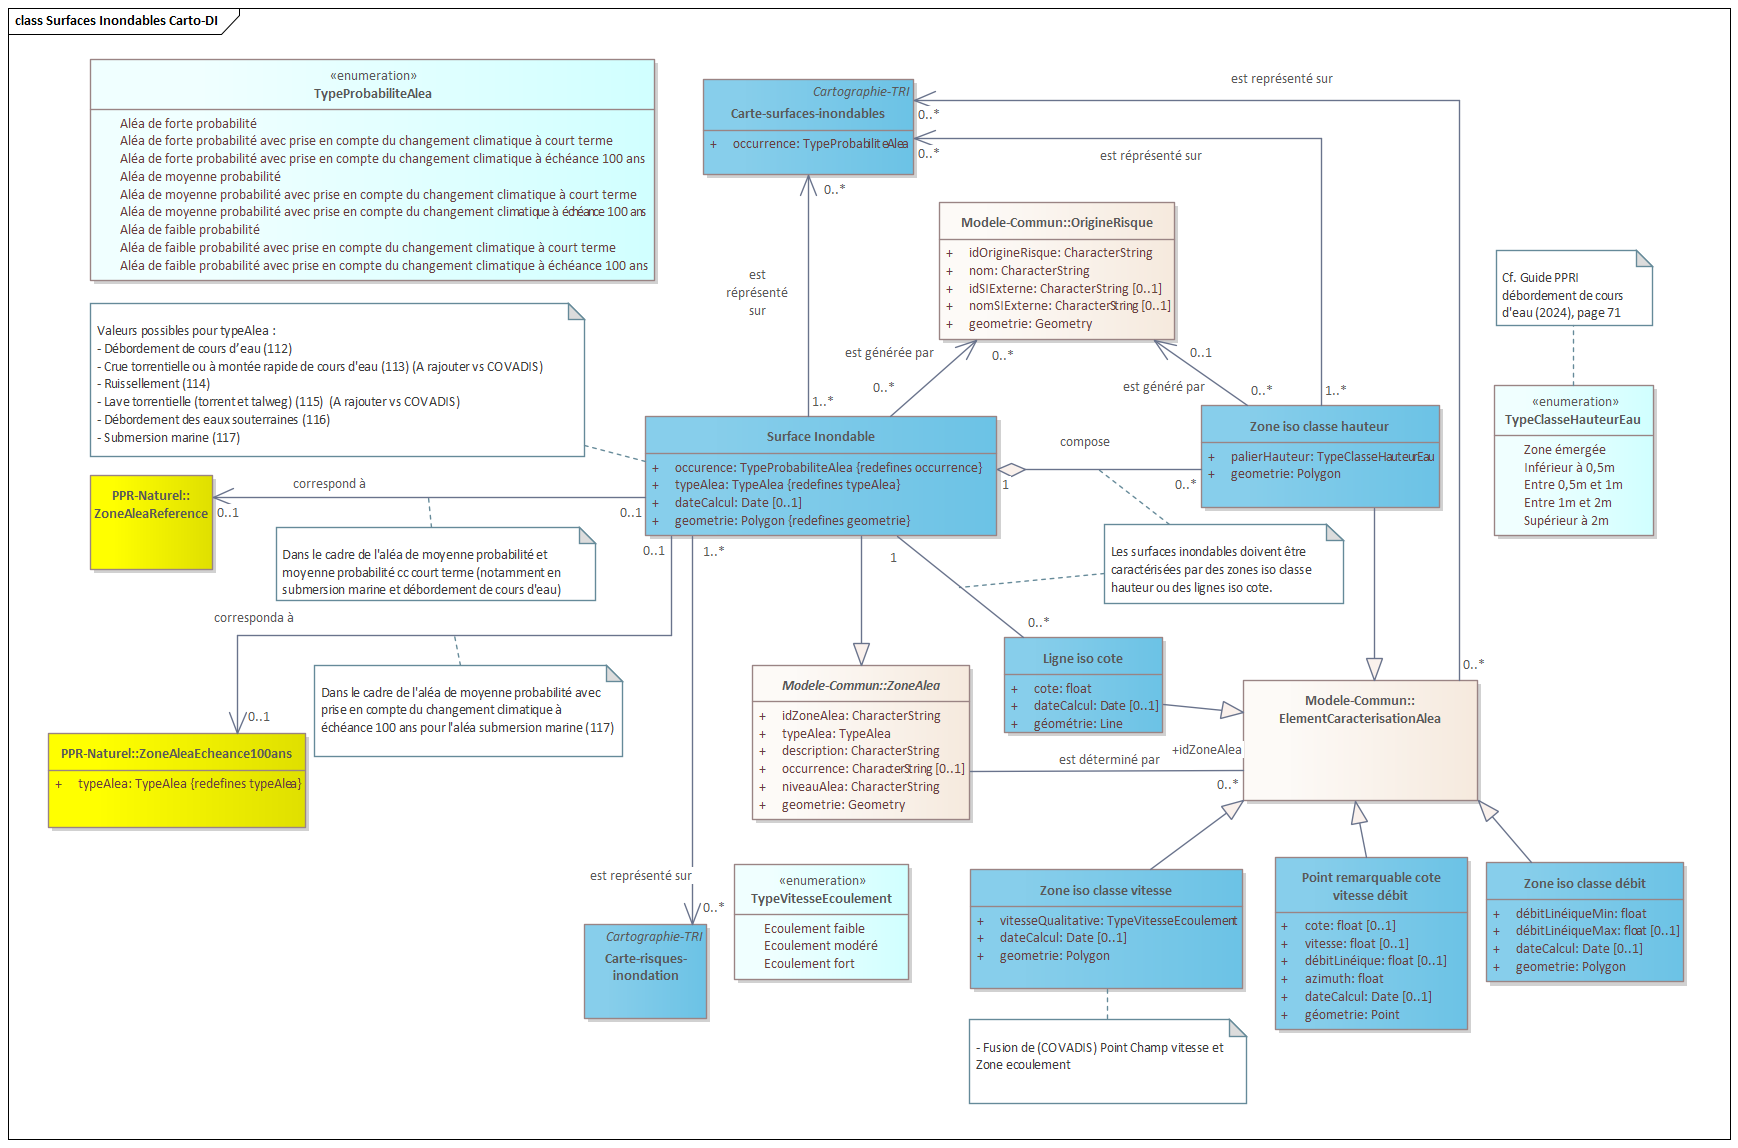
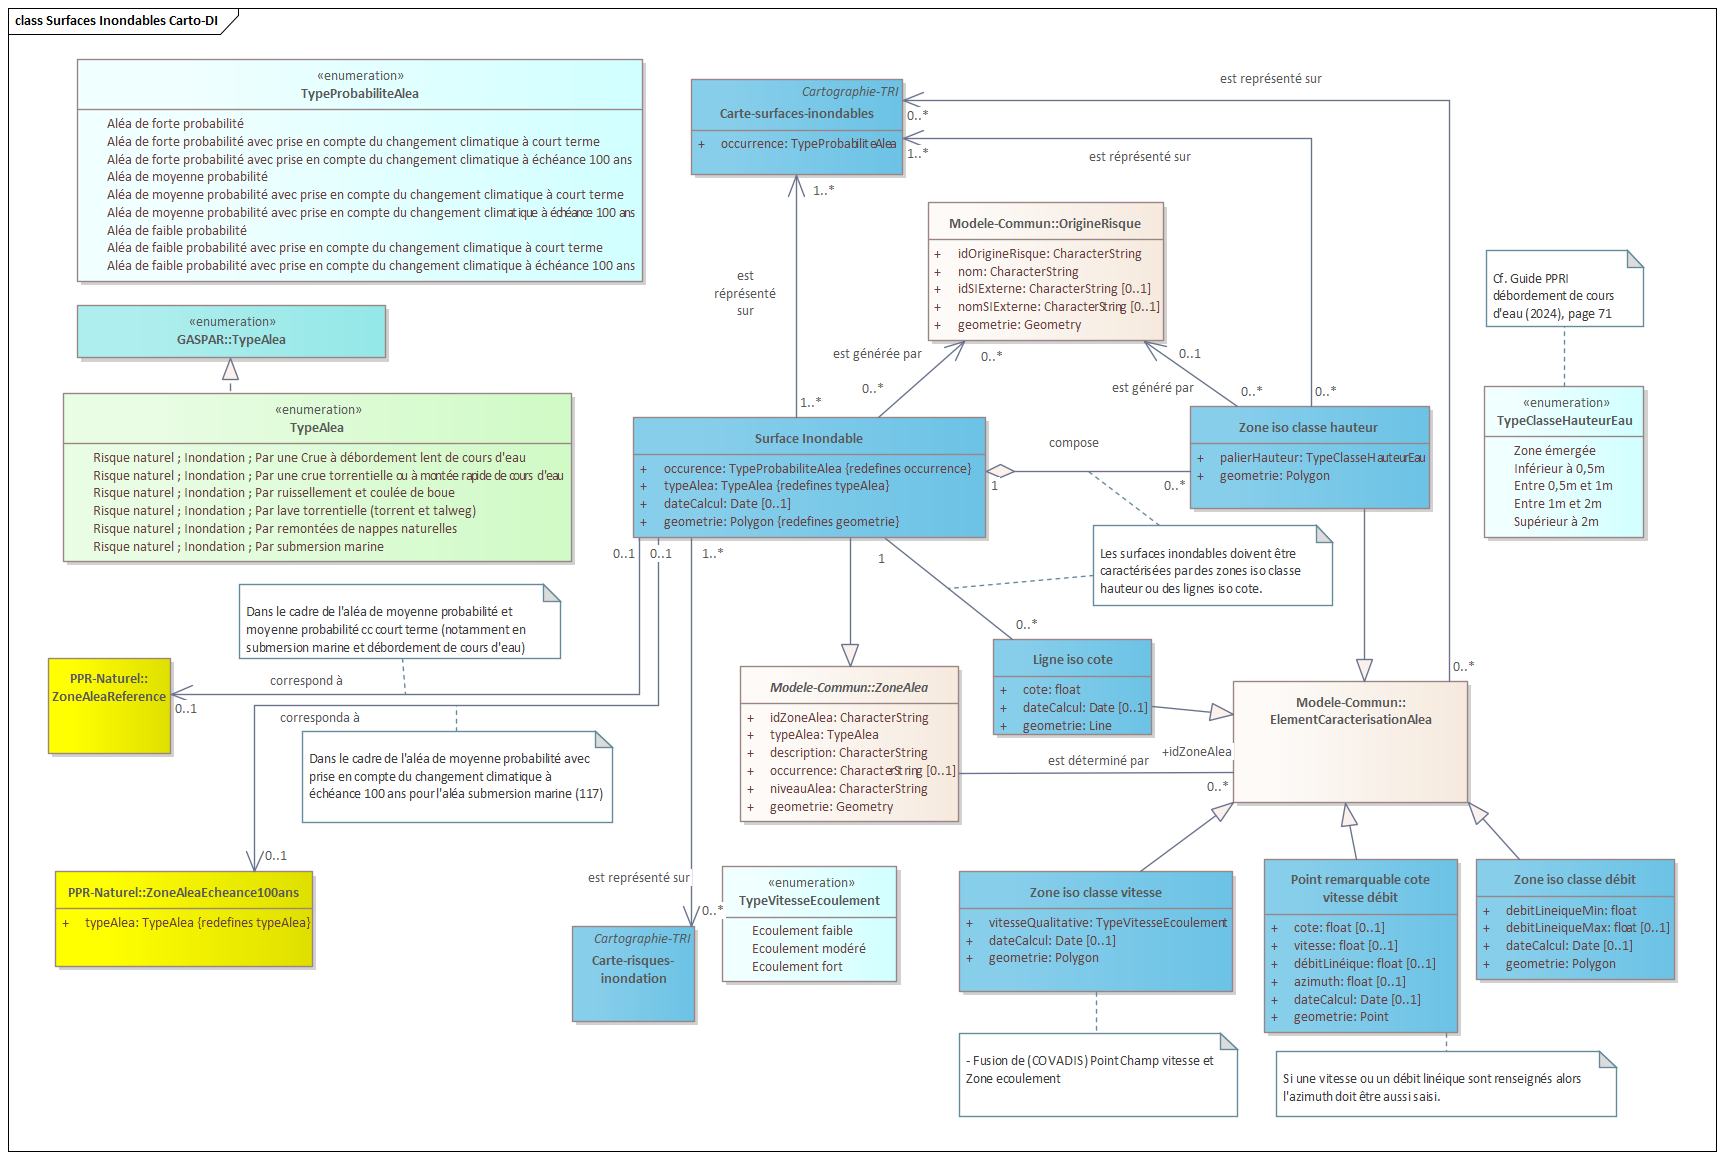
Ajout catalogue classes Surfaces inondables et consoeurs

diff --git a/standard/Document.md b/standard/Document.md
@@ -431,7 +431,7 @@ Les attributs pointant vers des référentiels externes (dits attributs pivots) 
 
 |  |  |
 |---|---|
-| **Classe d'objet** | `**Territoire à risque important d'inondation (TRI)**` |
+| **Classe d'objet** | **`Territoire à risque important d'inondation (TRI)`** |
 | **Définition** | Les objets de cette classe représentent les territoires à risques important d'inondation, tels que déterminés sur la base de l'évaluation préliminaire des risques d'inondation (EPRI) et de la stratégie nationale (cf. [Article L566-5](https://www.legifrance.gouv.fr/codes/article_lc/LEGIARTI000051561789) du code de l'environnement). Ils sont représentés géométriquement par leur périmètre et les caractéristiques permettant de faire le lien avec la procédure GASPAR associée et le rapportage européen. |
 | **Regroupement (facultatif)** |   |
 | **Modélisation géométrique** | La géométrie d’un TRI résulte de l’agrégation géométrique des communes qui le composent.  |
@@ -453,13 +453,13 @@ Les attributs pointant vers des référentiels externes (dits attributs pivots) 
 
 | Nom de l'association| Définition | Classe de départ (occurrence) | Classe d'arrivée (occurrence) |
 |-|-|-|-|
-| est décrit par | Relation sémantique permettant d'associer un TRI à une référence internet (celle de diffusion de ses cartographies) | [Territoire à risque important d'inondation](#territoire-à-risque-important-dinondation-tri)(1) | [Reference internet](#référence-internet)(1) |
+| `est décrit par` | Relation sémantique permettant d'associer un TRI à une référence internet (celle de diffusion de ses cartographies) | [Territoire à risque important d'inondation](#territoire-à-risque-important-dinondation-tri)(1) | [Reference internet](#référence-internet)(1) |
 
 ### Cartographie TRI
 
 |  |  |
 |---|---|
-| **Classe d'objet** | `**Cartographie TRI**` |
+| **Classe d'objet** | **`Cartographie TRI`** |
 | **Définition** | Cette classe abstraite porte les propriétés communes aux deux types de cartographies de la directive inondation [Carte des surfaces inondables](#carte-des-surfaces-inondables) et [Carte de risques inondation](#carte-de-risques-inondation) prévues respectivement par les articles [R566-6](https://www.legifrance.gouv.fr/codes/article_lc/LEGIARTI000023655649) et [R566-7](https://www.legifrance.gouv.fr/codes/article_lc/LEGIARTI000033942220) du code de l'environnement. |
 | **Regroupement (facultatif)** |   |
 | **Modélisation géométrique** | La géométrie correspond au rectangle englobant de la carte. |
@@ -477,13 +477,13 @@ Les attributs pointant vers des référentiels externes (dits attributs pivots) 
 
 | Nom de l'association| Définition | Classe de départ (occurrence) | Classe d'arrivée (occurrence) |
 |-|-|-|-|
-| représente | Relation sémantique permettant d'associer une carte à un TRI. | [Cartographie TRI](#cartographie-tri)(1-*) | [Territoire à risque important d'inondation](#territoire-à-risque-important-dinondation-tri)(1) |
+| `représente` | Relation sémantique permettant d'associer une carte à un TRI. | [Cartographie TRI](#cartographie-tri)(1-*) | [Territoire à risque important d'inondation](#territoire-à-risque-important-dinondation-tri)(1) |
 
 ### Carte des surfaces inondables
 
 |  |  |
 |---|---|
-| **Classe d'objet** | `**Carte des surfaces inondables**` |
+| **Classe d'objet** | **`Carte des surfaces inondables`** |
 | **Définition** | Cette classe spécialise la classe [Cartographie TRI](#cartographie-tri) en indiquant la probabilité d'aléa pour laquelle elle est établie. Elle permet de décrire la carte des surfaces inondables décrite par l'article [R566-6](https://www.legifrance.gouv.fr/codes/article_lc/LEGIARTI000023655649) du code de l'environnement. |
 | **Regroupement (facultatif)** |   |
 | **Modélisation géométrique** | La géométrie correspond au rectangle englobant de la carte. |
@@ -499,31 +499,44 @@ Les autres attributs sont ceux de la classe [Cartographie TRI](#attributs-de-la-
 
 #### Associations de la classe carte des surfaces inondables
 
-Cf. [associations de la classe Cartographie TRI](#associations-de-la-classe-cartographie-tri)
+| Nom de l'association| Définition | Classe de départ (occurrence) | Classe d'arrivée (occurrence) |
+|-|-|-|-|
+| `est représenté sur` | Relation sémantique permettant de rattacher une surface inondable à la carte de surfaces inondables où elle doit être représentée | [Surface inondable](#surface-inondable)(1..*) | [Carte des surfaces inondables](#carte-des-surfaces-inondables)(0..*) |
+| `est représenté sur` | Relation sémantique permettant de rattacher une ligne iso cote à la carte des surfaces inondables où elle peut être représentée | [Ligne iso côte](#ligne-iso-cote)(0..*) | [Carte des surfaces inondables](#carte-des-surfaces-inondables)(0..*) |
+| `est représenté sur` | Relation sémantique permettant de rattacher une zone iso classe de hauteur à la carte des surfaces inondables où elle doit être représentée | [Zone iso classe hauteur](#zone-iso-classe-hauteur)(0..*) | [Carte des surfaces inondables](#carte-des-surfaces-inondables)(1..*) |
+| `est représenté sur` | Relation sémantique permettant de rattacher une zone iso classe vitesse à la carte des surfaces inondables où elle peut être représentée | [Zone iso classe vitesse](#zone-iso-classe-vitesse)(0..*) | [Carte des surfaces inondables](#carte-des-surfaces-inondables)(0..*) |
+| `est représenté sur` | Relation sémantique permettant de rattacher un point remarquable cote vistesse débit à la carte des surfaces inondables où il peut être représentée | [Point remarquable cote vitesse débit](#point-remarquable-cote-vitesse-débit)(0..*) | [Carte des surfaces inondables](#carte-des-surfaces-inondables)(0..*) |
+| `est représenté sur` | Relation sémantique permettant de rattacher une zone iso classe débit à la carte des surfaces inondables où elle peut être représentée | [Zone iso classe débit](#zone-iso-classe-débit)(0..*) | [Carte des surfaces inondables](#carte-des-surfaces-inondables)(0..*) |
+
+Cf. aussi [associations de la classe Cartographie TRI](#associations-de-la-classe-cartographie-tri)
 
 ### Carte de risques inondation
 
-|  |  |
-|---|---|
-| **Classe d'objet** | `**Carte de risque inondation**` |
+| | |
+| - | - |
+| **Classe d'objet** | **`Carte de risque inondation`** |
 | **Définition** | Cette classe spécialise la classe [Cartographie TRI](#cartographie-tri) pour l'établissement des cartes de risques d'inondation telles que décrites par l'article [R566-7](https://www.legifrance.gouv.fr/codes/article_lc/LEGIARTI000033942220) du code de l'environnement. Elle comporte les mêmes propriétés. |
 | **Regroupement (facultatif)** |   |
 | **Modélisation géométrique** | La géométrie correspond au rectangle englobant de la carte. |
 | **Primitive graphique** | Polygon |
 
-#### Attributs de la classe
+#### Attributs de la classe de risques inondation
 
 Cf. attributs de la classe [Cartographie TRI](#attributs-de-la-classe-cartographie-tri)
 
-#### Associations de la classe carte des surfaces inondables
+#### Associations de la classe carte de risques inondation
 
-Cf. [associations de la classe Cartographie TRI](#associations-de-la-classe-cartographie-tri)
+| Nom de l'association| Définition | Classe de départ (occurrence) | Classe d'arrivée (occurrence) |
+| - | - | - | - |
+| `est représenté sur` | Relation sémantique permettant de rattacher une surface inondable à la carte de risques inondation où elle doit être représentée. | [Surface inondable](#surface-inondable)(1..*) | [Carte de risques inondation](#carte-de-risques-inondation)(0..*) |
+
+Cf. aussi [associations de la classe Cartographie TRI](#associations-de-la-classe-cartographie-tri)
 
 ### Référence Internet
 
-|  |  |
-|---|---|
-| **Classe d'objet** | `**Reference Internet**` |
+| | |
+| - | - |
+| **Classe d'objet** | **`Reference Internet`** |
 | **Définition** | Cette classe permet de décrire les ressources en ligne associées au TRI.  |
 | **Regroupement** | Une seule référence peut être associée et correspond à celle renseignée pour le rapportage européen. Il s'agit de la plateforme nationale de diffusion des TRI, ou, à défaut celle de la plateforme régionale de bassin. |
 | **Modélisation géométrique** | Cette classe n'a pas de géométrie associée. |
@@ -531,7 +544,7 @@ Cf. [associations de la classe Cartographie TRI](#associations-de-la-classe-cart
 #### Attributs de la classe Reference Internet
 
 | Attribut | Définition | Occurrences | Type | Contraintes | Exemples |
-|---|---|---|---|---|---|
+| - | - | - | - | - | - |
 | **`adresse`** | URL d'accès à la ressource internet. Faisant office de clé primaire pour la classe. | 1 | `url` | Clé primaire | `https://www.georisques.gouv.fr/donnees/bases-de-donnees/zonages-inondation-rapportage-2020` |
 | `nomRessource` | Nom de la ressource internet (titre du site, de la page). | 0..1 | `CharacterString` | Valeur vide autorisée | `Georisques : Zonages Inondation - Rapportage 2020` |
 | `description` | Description de la ressource internet | 0..1 | `CharacterString` | Valeur vide autorisée | `Page de téléchargement des TRI du rapportage 2020` |
@@ -543,18 +556,17 @@ Cf. [associations de la classe TRI](#associations-de-la-classe-tri)
 
 ### Surface inondable
 
-|  |  |
-|---|---|
-| **Classe d'objet** | `**Surface inondable**` |
+| | |
+| - | - |
+| **Classe d'objet** | **`Surface inondable`** |
 | **Définition** | Les objets de cette classe représentent les zones qui seront inondées en fonction d'une probabilité d'aléa et d'un type d'inondation. |
 | **Modélisation géométrique** | La géométrie d’une surface inondable résulte de l’agrégation géométrique des [zones iso classe hauteur](#zone-iso-classe-hauteur) correspondantes à la même probabilité d'aléa et du même type d'inondation (à l'exclusion des zones iso classes hauteur "émergées") ou déterminées par des [lignes iso cote](#ligne-iso-cote) correspondantes. |
 | **Primitive graphique** | Polygon |
 
-
 #### Attributs de la classe Surface inondable
 
 | Attribut | Définition | Occurrences | Type | Contraintes | Exemples |
-|---|---|---|---|---|---|
+| - | - | - | - | - | - |
 | **`idZoneAlea`** | Identifiant de la surface inondable. Cf. [Règles de codification des identifiants](#règles-de-codification-des-identifiants). | 1 | `identifiant` | Clé primaire | `SIN_0001` |
 | **`typeAlea`** | Type d'aléa inondation engendreant la surface; selon la codification GASPAR | 1 | `CharacterString` | Valeur à prendre parmi les valeurs de [TypeAleaCartoDI](#typealeacartodi) selon la nomenclature GASPAR | `112` |
 | **`occurrence`** | Probabilité de survenue de l'aléa inondation associée à la surface selon la caractérisation définie par [TypeProbabiliteAlea](#typeprobabilitealea) | 1 | [TypeProbabiliteAlea](#typeprobabilitealea) | Valeur obligatoire à prendre parmi les valeurs de[TypeProbabiliteAlea](#typeprobabilitealea) | `Aléa de moyenne probabilité` |
@@ -564,28 +576,148 @@ Cf. [associations de la classe TRI](#associations-de-la-classe-tri)
 
 #### Associations de la classe Surface inondable
 
-| Nom de l'association| Définition | Classe de départ (occurrence) | Classe d'arrivée (occurrence) |
-|-|-|-|-|
-| est représenté sur | Relation sémantique permettant de rattacher la surface inondable à la carte de risques inondation où elle doit être représentée | [Surface inondable](#surface-inondable)(1..*) | [Carte de risques inondation](#carte-de-risques-inondation)(0..*) |
-| est représenté sur | Relation sémantique permettant de rattacher la surface inondable à la carte de surfaces inondables où elle doit être représentée | [Surface inondable](#surface-inondable)(1..*) | [Carte des surfaces inondables](#carte-des-surfaces-inondables)(0..*) |
-| compose | Une surface inondable est composée par une agrégation de zones iso classes de hauteur | [Surface inondable](#surface-inondable)(1) | [Zone iso classe hauteur](#zone-iso-classe-hauteur)(0..*) |
-| est caractérisé par | Une surface inondable peut être caractérisée par un ensemble de lignes iso côte | [Surface inondable](#surface-inondable)(1) | [Ligne iso cote](#ligne-iso-cote)(0..*) |
-| est caractérisé par | Une surface inondable peut être caractérisée par un ensemble de zones iso classe vitesse | [Surface inondable](#surface-inondable)(1) | [Zone iso classe vitesse](#zone-iso-classe-vitesse)(0..*) |
-| est caractérisé par | Une surface inondable peut être caractérisée par un ensemble de points remarquables côte, vitesse, débit | [Surface inondable](#surface-inondable)(1) | [Point remarquable cote vitesse débit](#point-remarquable-cote-vitesse-débit)(0..*) |
-| est caractérisé par | Une surface inondable peut être caractérisée par un ensemble de zones iso classe débit | [Surface inondable](#surface-inondable)(1) | [Zone iso classe débit](#zone-iso-classe-débit)(0..*) |
+| Nom de l'association | Définition | Classe de départ (occurrence) | Classe d'arrivée (occurrence) |
+| - | - | - | - |
+| `compose` | Une surface inondable est composée par une agrégation de zones iso classes de hauteur | [Surface inondable](#surface-inondable)(1) | [Zone iso classe hauteur](#zone-iso-classe-hauteur)(0..*) |
+| `est caractérisé par` | Une surface inondable peut être caractérisée par un ensemble de lignes iso côte | [Surface inondable](#surface-inondable)(1) | [Ligne iso cote](#ligne-iso-cote)(0..*) |
+| `est caractérisé par` | Une surface inondable peut être caractérisée par un ensemble de zones iso classe vitesse | [Surface inondable](#surface-inondable)(1) | [Zone iso classe vitesse](#zone-iso-classe-vitesse)(0..*) |
+| `est caractérisé par` | Une surface inondable peut être caractérisée par un ensemble de points remarquables côte, vitesse, débit | [Surface inondable](#surface-inondable)(1) | [Point remarquable cote vitesse débit](#point-remarquable-cote-vitesse-débit)(0..*) |
+| `est caractérisé par` | Une surface inondable peut être caractérisée par un ensemble de zones iso classe débit | [Surface inondable](#surface-inondable)(1) | [Zone iso classe débit](#zone-iso-classe-débit)(0..*) |
+| `est généré par` | Une surface inondable peut être générée par une ou plusieurs origines de rique | [Surface inondable](#surface-inondable)(0..*) | [Origine du risque](#origine-du-risque)(0..*) |
 
+Cf. aussi [associations de la classe Carte des surfaces inondables](#associations-de-la-classe-carte-des-surfaces-inondables) et [associations de la classe Carte de risques inondation](#associations-de-la-classe-carte-de-risques-inondation)
 
 ### Origine du risque
 
+| | |
+| - | - |
+| **Classe d'objet** | **`Origine du risque`** |
+| **Définition** | Cette classe issue du [modèle commun](https://github.com/cnigfr/Geostandards-Risques/blob/main/standards/Geostandards-risques-commun/Document.md#classe-dobjets-originerisque) permet de faire référence aux objets à l'origine du risque inondation, typiquement un cours d'eau. Ces objets sont spécifiés dans des référentiels externes et n'ont pas vocation à être rédéfinis dans le cadre des cartographies de la directive inondation. On ne reprend ici que le nom et une éventuelle géométrie. |
+| **Modélisation géométrique** | La modélisation géométrique dépend du référentiel choisi. |
+| **Primitive graphique** | Selon les référentiels : Polygon, Line, Point |
+
+#### Attributs de la classe Origine du risque
+
+| Attribut | Définition | Occurrences | Type | Contraintes | Exemples |
+| - | - | - | - | - | - |
+| `idOrigineRisque` | Identifiant unique de l'objet origine du risque | 1..1 | `identifiant` | Deux objets de la classe OrigineRisque ne peuvent avoir la même valeur |   |
+| `nom` | Nom de l'objet origine du risque | 1..1 | CharacterString | Saisie libre (si possible en fonction du nom de l'objet dans le référentiel d'où il est extrait) | `La Loire` |
+| `idRefExterne` | Identifiant de l'objet dans le référentiel externe d'où il est extrait | 0..1 | CharacterString | Le formalisme de l'identifiant est déterminé par les spécifications du référentiel externe. |  |
+| `refExterne` | Référentiel externe d'où est extrait l'objet. | 0..1 | CharacterString | Saisie Libre | `BD Topage` |
+| `nom` | Nom de l'objet origine du risque | 1..1 | CharacterString | Saisie libre (si possible en fonction du nom de l'objet dans le référentiel d'où il est extrait) | `La Loire` |
+
+#### Associations de la classe Origine du risque
+
+Cf. [associations de la classe surface inondable](#associations-de-la-classe-surface-inondable) et [associations de la classe zone iso classe hauteur](#associations-de-la-classe-zone-iso-classe-hauteur).
+
 ### Ligne iso cote
+
+| | |
+| - | - |
+| **Classe d'objet** | **`Ligne iso cote`** |
+| **Définition** | Les lignes d’iso cote sont les courbes de niveaux représentant les altitudes atteintes par les eaux lors d’une inondation. |
+| **Modélisation géométrique** | A l’instar des courbes de niveau altimétrique, la ligne d’iso-cote a pour géométrie le résultat d’une interpolation reliant l’ensemble des points où la surface de l’inondation atteint la même altitude. La valeur de cette altitude est donnée par l’attribut cote. |
+| **Primitive graphique** | Line |
+
+#### Attributs de la classe Ligne iso cote
+
+| Attribut | Définition | Occurrences | Type | Contraintes | Exemples |
+| - | - | - | - | - | - |
+| **`identifiant`** | Identifiant de la ligne iso cote. Cf. [Règles de codification des identifiants](#règles-de-codification-des-identifiants). | 1 | `identifiant` | Clé primaire | `LIC_0001` |
+| `cote` | Altitude de la surface de l’eau | 1..1 | `réel` | Valeur vide interdite, exprimée en mètre dans le système IGN/NGF (cf. [Systèmes de référence spatiaux](#systèmes-de-référence-spatiaux)). | `250,5` |
+| **`dateCalcul`** | Date de calcul de la ligne iso cote | 0..1 | `date` | Valeur facultative | `26/11/2012` |
+
+#### Associations de la classe Ligne iso cote
+
+Cf. [associations de la classe surface inondable](#associations-de-la-classe-surface-inondable) et [associations de la classe Carte des surfaces inondables](#associations-de-la-classe-carte-des-surfaces-inondables).
 
 ### Zone iso classe hauteur
 
+| | |
+| - | - |
+| **Classe d'objet** | **`Zone iso classe hauteur`** |
+| **Définition** | Zone pour laquelle un aléa d’un certain type selon une certaine probabilités d'occurrence provoque une montée d’eau dont la hauteur se situe dans une plage de valeurs fixe. Une zone d’iso classe de hauteur est une zone pour laquelle l’ensemble des hauteurs d’eau se situent dans une même plage de hauteurs. Une zone d’iso classe de hauteur est caractérisée par son extension spatiale et son palier de hauteur d'eau caractérisé par l'énumération [TypeClasseHauteurEau](#typeclassehauteureau). |
+| **Modélisation géométrique** | Les zones d’iso classe de hauteur forment une partition de la surface inondable : tout point de la surface inondable est recouvert par une et une seule zone d’iso classe de hauteur (à l'exception de celles décrivant des zones émergées). |
+| **Primitive graphique** | Polygon |
+
+#### Attributs de la classe Zone iso classe hauteur
+
+| Attribut | Définition | Occurrences | Type | Contraintes | Exemples |
+|---|---|---|---|---|---|
+| **`identifiant`** | Identifiant de la zone iso classe de hauteur. Cf. [Règles de codification des identifiants](#règles-de-codification-des-identifiants). | 1 | `identifiant` | Clé primaire | `ZCH_0001` |
+| `palierHauteur` | Palier de hauteur d'eau | 1..1 | [TypeClasseHauteurEau](#typeclassehauteureau) | Valeur obligatoire à prendre parmi les valeurs de [TypeClasseHauteurEau](#typeclassehauteureau) | `Inférieur à 0,5m` |
+
+#### Associations de la classe Zone iso classe hauteur
+
+Cf. [associations de la classe surface inondable](#associations-de-la-classe-surface-inondable) et [associations de la classe Carte des surfaces inondables](#associations-de-la-classe-carte-des-surfaces-inondables).
+
 ### Zone iso classe vitesse
+
+| | |
+| - | - |
+| **Classe d'objet** | **`Zone iso classe vitesse`** |
+| **Définition** | Les zones iso classe vitesse sont des zones sur lesquelles on dispose d'une estimation qualitative (selon l'énumération [TypeVitesseEcoulement](#typevitesseecoulement)) de la vitesse d'écoulement dans le cas d'une inondation d'un certain type pour une probabilité d'occurence donnée. |
+| **Modélisation géométrique** | Les zones iso classe vitesse sont représentées par des surfaces auxquelles une vitesse moyenne est appliquée. Cette classe d'objet regroupe en une seule classe les zones d'écoulement et les points champs vitesse de l'ancien standard COVADIS. |
+| **Primitive graphique** | Polygon |
+
+#### Attributs de la classe Zone iso classe vitesse
+
+| Attribut | Définition | Occurrences | Type | Contraintes | Exemples |
+| - | - | - | - | - | - |
+| **`identifiant`** | Identifiant de la zone iso classe vitesse. Cf. [Règles de codification des identifiants](#règles-de-codification-des-identifiants). | 1 | `identifiant` | Clé primaire | `ZCV_0001` |
+| `vitesseQualitative` | Classe de vitesse d'écoulement | 1..1 | `réel` | Saisie obligatoire à prendre parmi les valeurs de [TypeVitesseEcoulement](#typevitesseecoulement) | `Ecoulement faible` |
+| **`dateCalcul`** | Date de calcul de la zone iso classe vitesse | 0..1 | `date` | Valeur facultative | `26/11/2012` |
+
+#### Associations de la Zone iso classe vitesse
+
+Cf. [associations de la classe surface inondable](#associations-de-la-classe-surface-inondable) et [associations de la classe Carte des surfaces inondables](#associations-de-la-classe-carte-des-surfaces-inondables).
 
 ### Zone iso classe débit
 
+| | |
+| - | - |
+| **Classe d'objet** | **`Zone iso classe débit`** |
+| **Définition** | Dans le cas d’inondation par ruissellement, une zone d’iso classe de débit est une zone d’écoulement des eaux à l’intérieur de laquelle le débit linéique se situe dans une même plage de valeurs. Les surfaces d’inondation par ruissellement sont généralement mieux caractérisées par le débit linéique qui s’exprime en mètre-carré par seconde (m²/s) ou mètre-cube par seconde (m³/s) par mètre linéaire (la charge hydraulique peut également être envisagée). Le paramètre de débit linéique est plus pertinent que la hauteur ou la vitesse dans les cas de ruissellement. |
+| **Modélisation géométrique** | |
+| **Primitive graphique** | Polygon |
+
+#### Attributs de la classe Zone iso classe débit
+
+| Attribut | Définition | Occurrences | Type | Contraintes | Exemples |
+| - | - | - | - | - | - |
+| **`identifiant`** | Identifiant de la zone iso classe débit. Cf. [Règles de codification des identifiants](#règles-de-codification-des-identifiants). | 1 | `identifiant` | Clé primaire | `ZCD_0001` |
+| `debitLineiqueMin` | Seuil inférieur de la plage de débit linéaire d’écoulement des eaux dans le cas d’une inondation par ruissellement. | 1..1 | `réel` | Saisie obligatoire, exprimée en m2/s, ne peut être négative. | `0.2` |
+| `debitLineiqueMax` | Seuil supérieur de la plage de débit linéaire d’écoulement des eaux dans le cas d’une inondation par ruissellement. | 0..1 | `réel` | Saisie facultative exprimée en m2/s. Si cette valeur n’est pas renseignée, la plage de débit correspond à la plage des débits maximaux (supérieur à un débit donné). Par exemple, la plage des « débits supérieurs ou égaux à 0.2 m²/s (vitesse de 1 m/s pour une hauteur de 20 cm)» se traduit par un seuil inférieur de la plage de débit (avec dans le cas de l’exemple la valeur « 0.2 ») et un seuil supérieur laissé vide. | `0.4` |
+| **`dateCalcul`** | Date de calcul de la zone iso classe débit | 0..1 | `date` | Valeur facultative | `26/11/2012` |
+
+#### Associations de la Zone iso classe débit
+
+Cf. [associations de la classe surface inondable](#associations-de-la-classe-surface-inondable) et [associations de la classe Carte des surfaces inondables](#associations-de-la-classe-carte-des-surfaces-inondables).
+
 ### Point remarquable cote vitesse débit
+
+| | |
+| - | - |
+| **Classe d'objet** | **`Point remarquable cote vitesse débit`** |
+| **Définition** | Un point remarquable de cote, de vitesse ou de débit est un point isolé (et non un semis de points) pour lequel une information précise de la cote atteinte par les eaux, de la vitesse d’écoulement ou du débit linéique dans le cas d’une inondation est connue. Ils ne se substituent pas aux paramètres hauteurs, vitesses, débit linéique tels que décrits par les autres classes, mais apportent une information ponctuelle complémentaire. |
+| **Modélisation géométrique** | Le point est localisé à l’endroit où la cote, la vitesse ou le débit a été mesuré. |
+| **Primitive graphique** | Point |
+
+#### Attributs de la classe Point remarquable cote vitesse débit
+
+| Attribut | Définition | Occurrences | Type | Contraintes | Exemples |
+| - | - | - | - | - | - |
+| **`identifiant`** | Identifiant du point remarquable. Cf. [Règles de codification des identifiants](#règles-de-codification-des-identifiants). | 1 | `identifiant` | Clé primaire | `PRE_0001` |
+| `cote` | Altitude de la surface de l’eau lors de l'inondation | 0..1 | `réel` | Saisie facultative, exprimée en mètre dans le système IGN/NGF (cf. [Systèmes de référence spatiaux](#systèmes-de-référence-spatiaux)). | `250.5` |
+| `vitesse` | Vitesse d’écoulement de l’eau dans le cas d’une
+inondation. | 0..1 | `réel` | Saisie facultative, exprimée en m/s. | `0.2` |
+| `debitLineique` | Débit linéique d'écoulement dans le cas d’une inondation par ruissellement. | 0..1 | `réel` | Saisie facultative, exprimée en m2/s, ne peut être négative. | `0.2` |
+| `azimuth` | Angle entre le Nord géographique et la direction de l’écoulement, pris dans le sens des aiguilles d’une montre. | 0..1 | `réel` | Saisie facultative, exprimée en degré décimal. Si la vitesse ou le débit linéique est renseigné, alors l’azimuth doit aussi être renseigné. | `0.2` |
+| **`dateCalcul`** | Date de calcul du point remarquable. | 0..1 | `date` | Valeur facultative | `26/11/2012` |
+
+#### Associations de la Point remarquable cote vitesse débit
+
+Cf. [associations de la classe surface inondable](#associations-de-la-classe-surface-inondable) et [associations de la classe Carte des surfaces inondables](#associations-de-la-classe-carte-des-surfaces-inondables).
 
 ### Ouvrage protecteur
 
@@ -596,7 +728,6 @@ Cf. [associations de la classe TRI](#associations-de-la-classe-tri)
 ### Enjeu
 
 ### Enjeux rapportés TRI
-
 
 ## Description des types énumérés
 
@@ -611,7 +742,7 @@ Outres les valeurs désignées, tous les types énumérés comprennent les valeu
 Le tableau suivant liste les valeurs possibles permettant de caractériser les références internet associées à un TRI.
 
 | Libellé | Définition |
-|-|-|
+| - | - |
 | Plateforme nationale | Plateforme nationale de diffusion des cartographies des TRI |
 | Plateforme régionale | Site internet de la DREAL de bassin où sont accessibles les cartographies du TRI concerné |
 
@@ -624,22 +755,51 @@ Les valeurs possibles pour l'état associé à un TRI ou ses cartographies se li
 Le tableau suivant liste les valeurs possibles permettant de caractériser les différents probabilités d'aléa représentables sur les cartographies des TRI.
 
 | Libellé | Définition |
-|-|-|
-| Aléa de forte probabilité | (également dénommé événement fréquent) Événement provoquant les premiers dommages conséquents, commençant à un temps de retour de 10 ans et dans la limite d'une période de retour de l’ordre de 30 ans. |
-| Aléa de forte probabilité avec prise en compte du changement climatique à court terme | (également dénommé événement fréquent avec changement climatique à court terme) Événement calculé par majoration à court terme d'un événement de période de retour comprise entre 10 et 30 ans qui est l’événement choisi de forte probabilité. |
-| Aléa de forte probabilité avec prise en compte du changement climatique à échéance 100 ans | (également dénommé événement fréquent avec changement climatique à échéance 100 ans) Événement calculé par majoration à échéance 100 ans d'un événement de période de retour comprise entre 10 et 30 ans qui est l’événement choisi de forte probabilité. |
-| Aléa de moyenne probabilité | (également dénommé événement moyen) Événement ayant une période de retour comprise entre 100 et 300 ans, qui correspond dans la plupart à l’aléa de référence du PPRi, s’il existe. Si un événement historique de référence n’est pas utilisé, un événement de type centennal est recherché. |
-| Aléa de moyenne probabilité avec prise en compte du changement climatique à court terme | (également dénommé événement moyen avec changement climatique à court terme) Événement calculé par majoration à court terme d'un événement de période de retour comprise entre 100 et 300 ans qui est l’événement choisi de moyenne probabilité. |
-| Aléa de moyenne probabilité avec prise en compte du changement climatique à échéance 100 ans | (également dénommé événement moyen avec changement climatique) Événement calculé par majoration à échéance 100 ans d'un événement de période de retour comprise entre 100 et 300 ans qui est l’événement choisi de moyenne probabilité. Correspond à l'aléa échéance 100 ans du PPRI, s'il existe, pour l'aléa submersion marine. |
-| Aléa de faible probabilité | (également dénommé événement extrême) Phénomène d'inondation exceptionnel inondant toute la surface de la plaine alluviale fonctionnelle (lit majeur) ou de la plaine littorale fonctionnelle pouvant être estimé comme un maximum à prendre en compte pour la gestion d’un territoire (hors aménagements spécifiques : centrales nucléaires, grands barrages), et pour lequel les éventuels systèmes de protection mis en place ne sont plus efficaces. A titre indicatif, une période de retour d'au moins 1000 ans est recherchée. |
-| Aléa de faible probabilité avec prise en compte du changement climatique à court terme | (également dénommé événement extrême avec changement climatique à court terme) Événement calculé par majoration à court terme d'un événement extrême qui est l’événement choisi de faible probabilité. |
-| Aléa de faible probabilité avec prise en compte du changement climatique à échéance 100 ans | (également dénommé événement extrême avec changement climatique à échéance 100 ans) Événement calculé par majoration à échéance 100 ans d'un événement extrême qui est l’événement choisi de faible probabilité. |
+| - | - |
+| `Aléa de forte probabilité` | (également dénommé événement fréquent) Événement provoquant les premiers dommages conséquents, commençant à un temps de retour de 10 ans et dans la limite d'une période de retour de l’ordre de 30 ans. |
+| `Aléa de forte probabilité avec prise en compte du changement climatique à court terme` | (également dénommé événement fréquent avec changement climatique à court terme) Événement calculé par majoration à court terme d'un événement de période de retour comprise entre 10 et 30 ans qui est l’événement choisi de forte probabilité. |
+| `Aléa de forte probabilité avec prise en compte du changement climatique à échéance 100 ans` | (également dénommé événement fréquent avec changement climatique à échéance 100 ans) Événement calculé par majoration à échéance 100 ans d'un événement de période de retour comprise entre 10 et 30 ans qui est l’événement choisi de forte probabilité. |
+| `Aléa de moyenne probabilité` | (également dénommé événement moyen) Événement ayant une période de retour comprise entre 100 et 300 ans, qui correspond dans la plupart à l’aléa de référence du PPRi, s’il existe. Si un événement historique de référence n’est pas utilisé, un événement de type centennal est recherché. |
+| `Aléa de moyenne probabilité avec prise en compte du changement climatique à court terme` | (également dénommé événement moyen avec changement climatique à court terme) Événement calculé par majoration à court terme d'un événement de période de retour comprise entre 100 et 300 ans qui est l’événement choisi de moyenne probabilité. |
+| `Aléa de moyenne probabilité avec prise en compte du changement climatique à échéance 100 ans` | (également dénommé événement moyen avec changement climatique) Événement calculé par majoration à échéance 100 ans d'un événement de période de retour comprise entre 100 et 300 ans qui est l’événement choisi de moyenne probabilité. Correspond à l'aléa échéance 100 ans du PPRI, s'il existe, pour l'aléa submersion marine. |
+| `Aléa de faible probabilité` | (également dénommé événement extrême) Phénomène d'inondation exceptionnel inondant toute la surface de la plaine alluviale fonctionnelle (lit majeur) ou de la plaine littorale fonctionnelle pouvant être estimé comme un maximum à prendre en compte pour la gestion d’un territoire (hors aménagements spécifiques : centrales nucléaires, grands barrages), et pour lequel les éventuels systèmes de protection mis en place ne sont plus efficaces. A titre indicatif, une période de retour d'au moins 1000 ans est recherchée. |
+| `Aléa de faible probabilité avec prise en compte du changement climatique à court terme` | (également dénommé événement extrême avec changement climatique à court terme) Événement calculé par majoration à court terme d'un événement extrême qui est l’événement choisi de faible probabilité. |
+| `Aléa de faible probabilité avec prise en compte du changement climatique à échéance 100 ans` | (également dénommé événement extrême avec changement climatique à échéance 100 ans) Événement calculé par majoration à échéance 100 ans d'un événement extrême qui est l’événement choisi de faible probabilité. |
 
 ### TypeAleaCartoDI
 
+Le tableau suivant liste les valeurs possibles permettant de caractériser les différents types d'aléas inondation couverts par les cartographies la directive inondation. Il s'agit d'une restriction des valeurs possibles de la nomenclature des aléas définie dans GASPAR et reprise dans le [modèle commun](https://github.com/cnigfr/Geostandards-Risques/blob/main/standards/Geostandards-risques-commun/Document.md#enumeration-typealea).
+
+| Libellé | Code GASPAR |
+| - | - |
+| Risque naturel ; Inondation ; Par une crue à débordement lent de cours d'eau | 112 |
+| *Risque naturel ; Inondation ; Par une crue torrentielle ou à montée rapide de cours d'eau ?* | *113* |
+| Risque naturel ; Inondation ; Par ruissellement et coulée de boue | 114 |
+| *Risque naturel ; Inondation ; Par lave torrentielle (torrent et talweg) ?* | *115* |
+| Risque naturel ; Inondation ; Par remontées de nappes naturelles | 116 |
+| Risque naturel ; Inondation ; Par submersion marine | 117 |
+
 ### TypeVitesseEcoulement
 
+Le tableau suivant liste les valeurs possibles permettant de caractériser les classes qualitatives de vitesse d'écoulement. Ces classes de valeurs sont cohérentes avec celles utilisées dans le [Guide PPRI:2024, p.71](https://www.ecologie.gouv.fr/sites/default/files/documents/Guide%20PPRI%20debordement%20de%20cours%20d%27eau%202024.pdf) pour l'estimation de la dynamique liée à la combinaison de la vitesse d’écoulement de l’eau et de la vitesse de montée des eaux.
+
+| Libellé | Définition |
+| - | - |
+| `écoulement faible` | L’écoulement a une vitesse faible lorsque l’ordre de grandeur de cette vitesse est estimé inférieur à 0,2 mètre/s. Cette zone d’écoulement faible est aussi qualifiée de zone de stockage. |
+| `écoulement modéré` | L’écoulement a une vitesse modérée lorsque l’ordre de grandeur de cette vitesse est estimé supérieur à 0,2 mètre/s et inférieur à 0,5 mètre/s. |
+| `écoulement fort` | L’écoulement a une vitesse forte lorsque l’ordre de grandeur de cette vitesse est estimé supérieur à 0,5 mètre/s. |
+
 ### TypeClasseHauteurEau
+
+Le tableau suivant liste les valeurs possibles permettant de caractériser les paliers de hauteur d'eau pour les [zones iso classe hauteur](#zone-iso-classe-hauteur). Les paliers proposés sont cohérents avec ceux utilisés dans le [Guide PPRI:2024, p.71](https://www.ecologie.gouv.fr/sites/default/files/documents/Guide%20PPRI%20debordement%20de%20cours%20d%27eau%202024.pdf) pour l'estimation du niveau d'aléa.
+
+| Libellé | Définition |
+| - | - |
+| `Zone émergée` | Cette valeur spécifique permet, lorsque cela a un sens, notamment pour des conséquences réglementaires, d'identifier des zones émergées au sein (topologiquement parlant) d'une surface inondable pour une probabilité d'occurence donnée. Cette classe de hauteur d'eau **n'est pas prise en compte** pour le calcul de la surface inondable lors de l'agrégation des classes de hauteur d'eau.  |
+| `Inférieur à 0,5m` | Ces hauteurs correspondent au seuil de hauteurs d'eau "extrèmement faibles". |
+| `Entre 0,5m et 1m` | Hauteurs d'eau comprises entre 0,5m et 1m (qualifié de "inférieur à 1m" dans le [Guide PPRI:2024](https://www.ecologie.gouv.fr/sites/default/files/documents/Guide%20PPRI%20debordement%20de%20cours%20d%27eau%202024.pdf)) |
+| `Entre 1m et 2m` | Hauteurs d'eau comprises entre 1m et 2m |
+| `Supérieur à 2m` | Hauteurs d'eau supérieures à 2m |
 
 ### TypeOuvrageprotecteur
 
@@ -700,7 +860,7 @@ Cette qualité peut être estimée, par exemple par des pourcentages de fiabilit
 
 Ces mesures peuvent être :
 
-● Objectivables : Elles peuvent être transverses et communes à différents standards. Elles sont référencées par leur URls, disponibles dans [le registre national des mesures pour la qualification des données géographiques](https://data.geocatalogue.fr/ncl/mesuresQuaDoGeo/_incertitudeValAttS95). 
+● Objectivables : Elles peuvent être transverses et communes à différents standards. Elles sont référencées par leur URls, disponibles dans [le registre national des mesures pour la qualification des données géographiques](https://data.geocatalogue.fr/ncl/mesuresQuaDoGeo/_incertitudeValAttS95).
 
 ● Métiers : Il existe déjà en interne de la thématique des processus de production ou de gestion et ils peuvent être réutilisés pour mesurer la qualité des données de cette thématique.
 